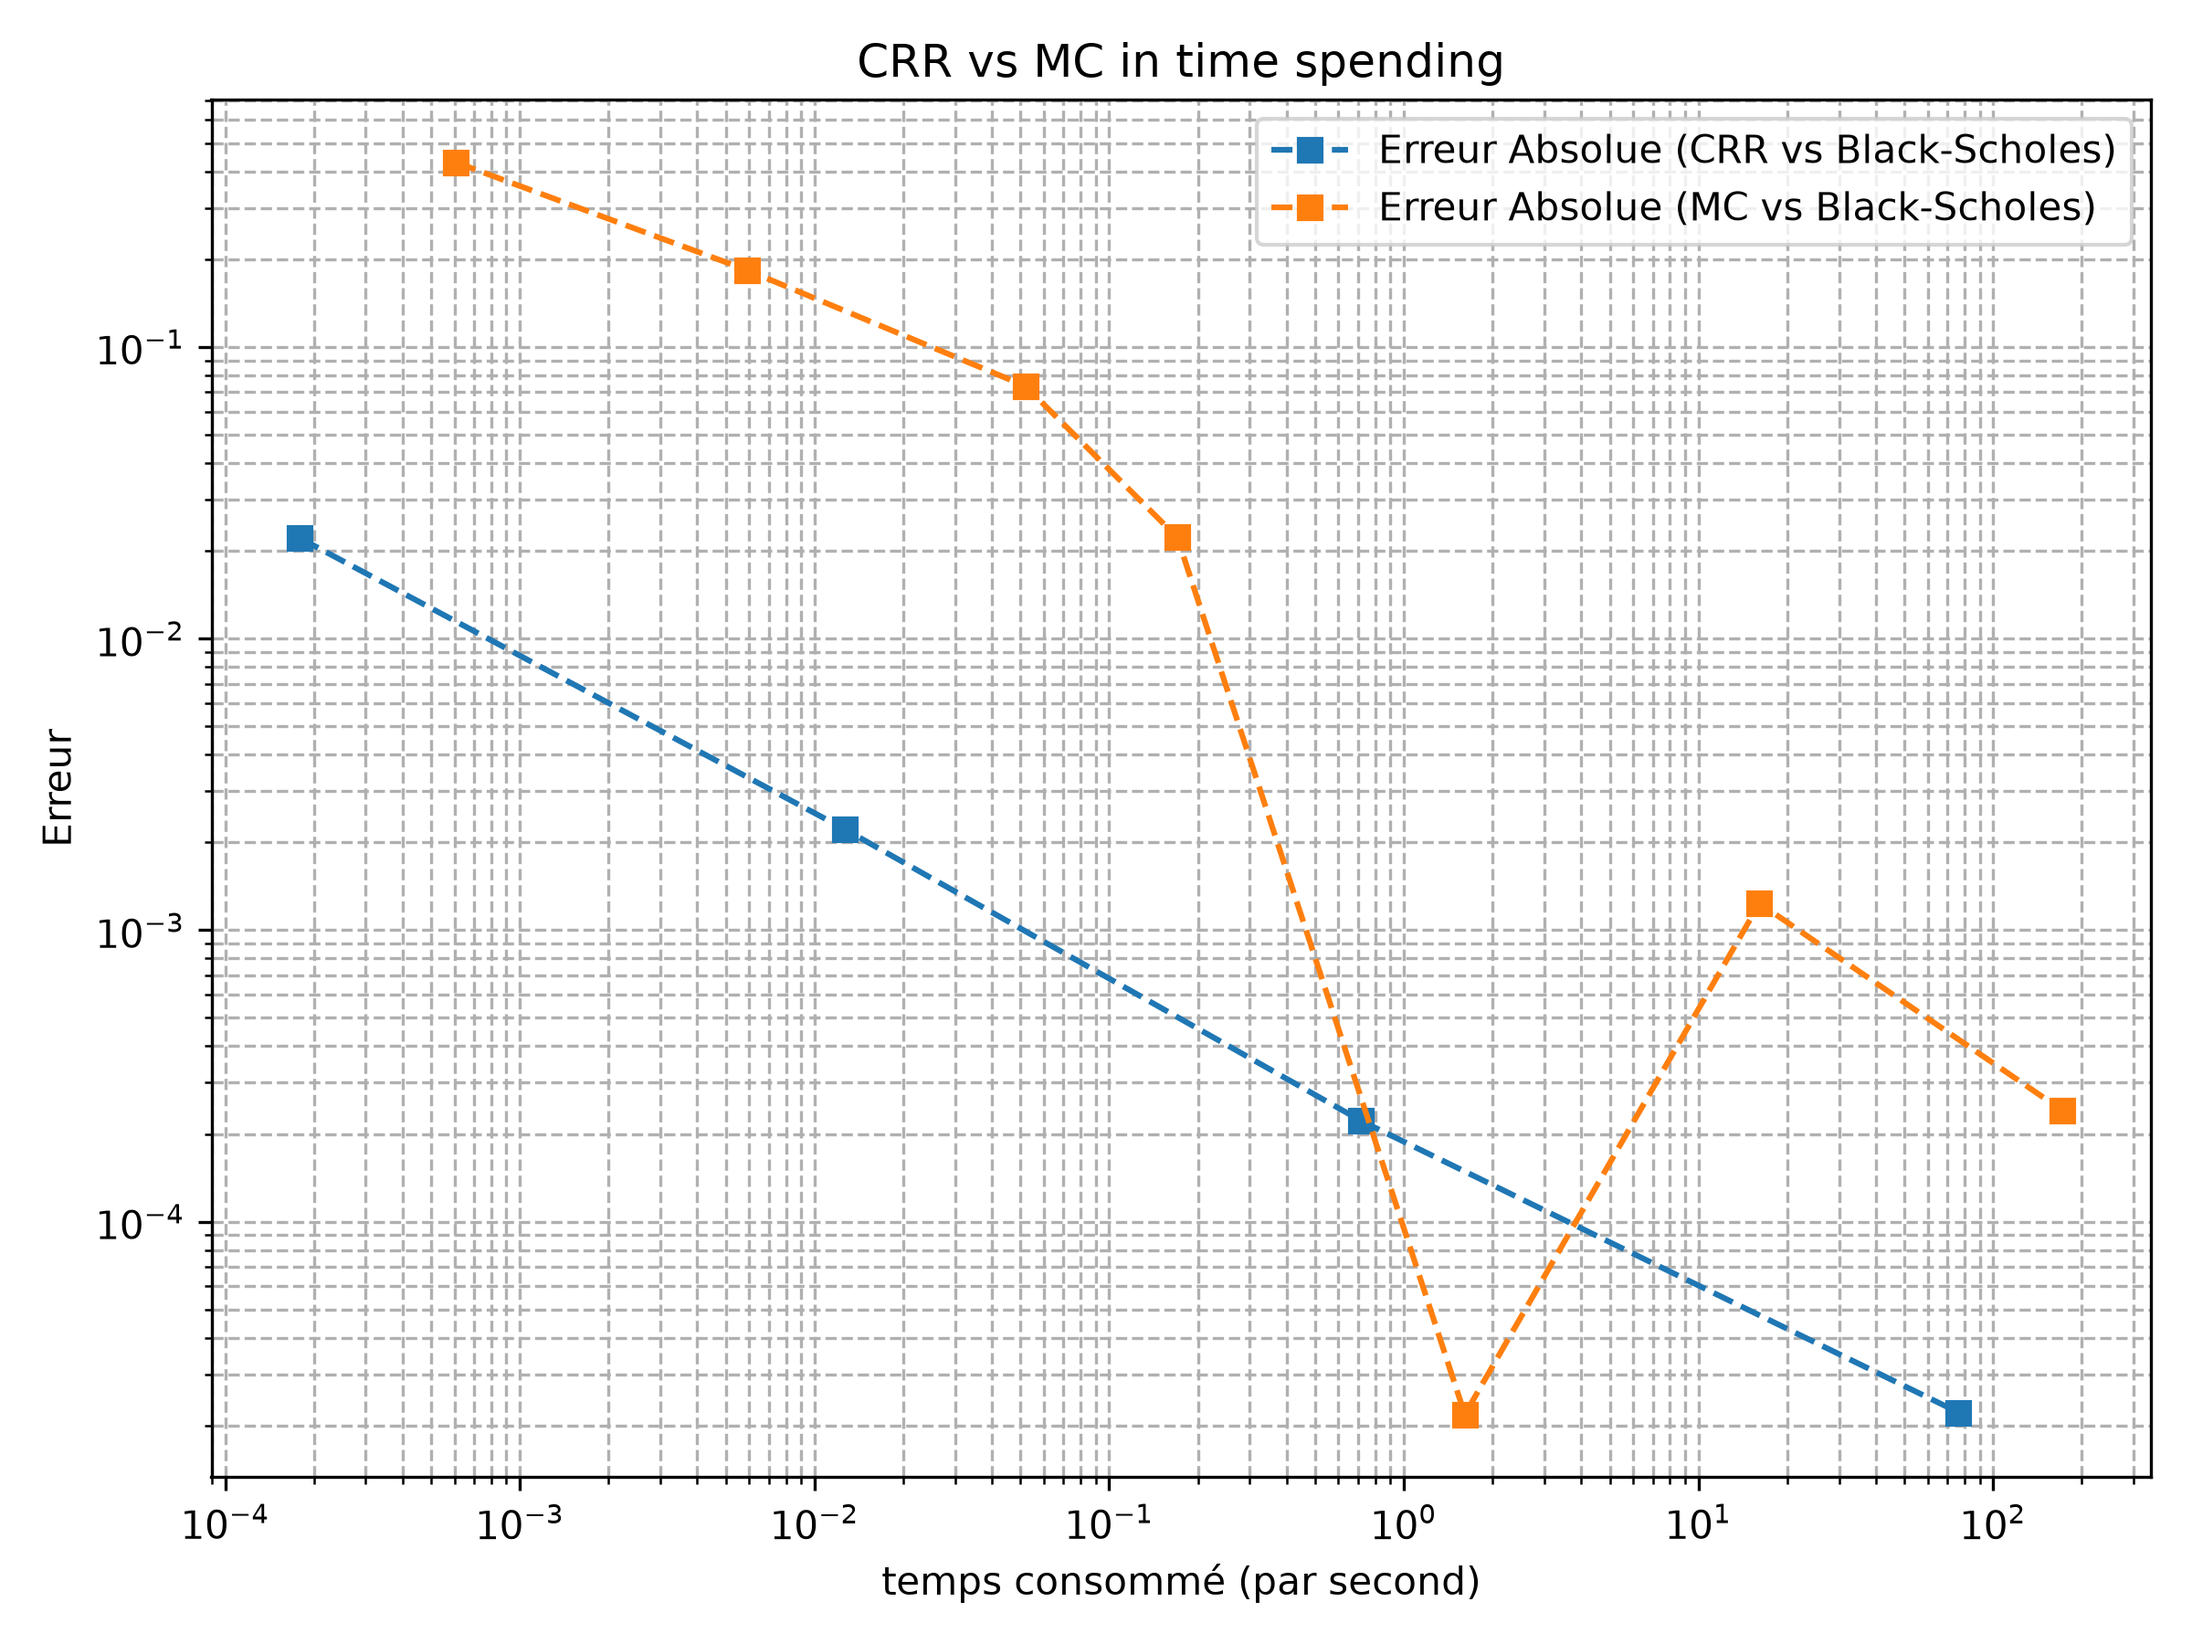
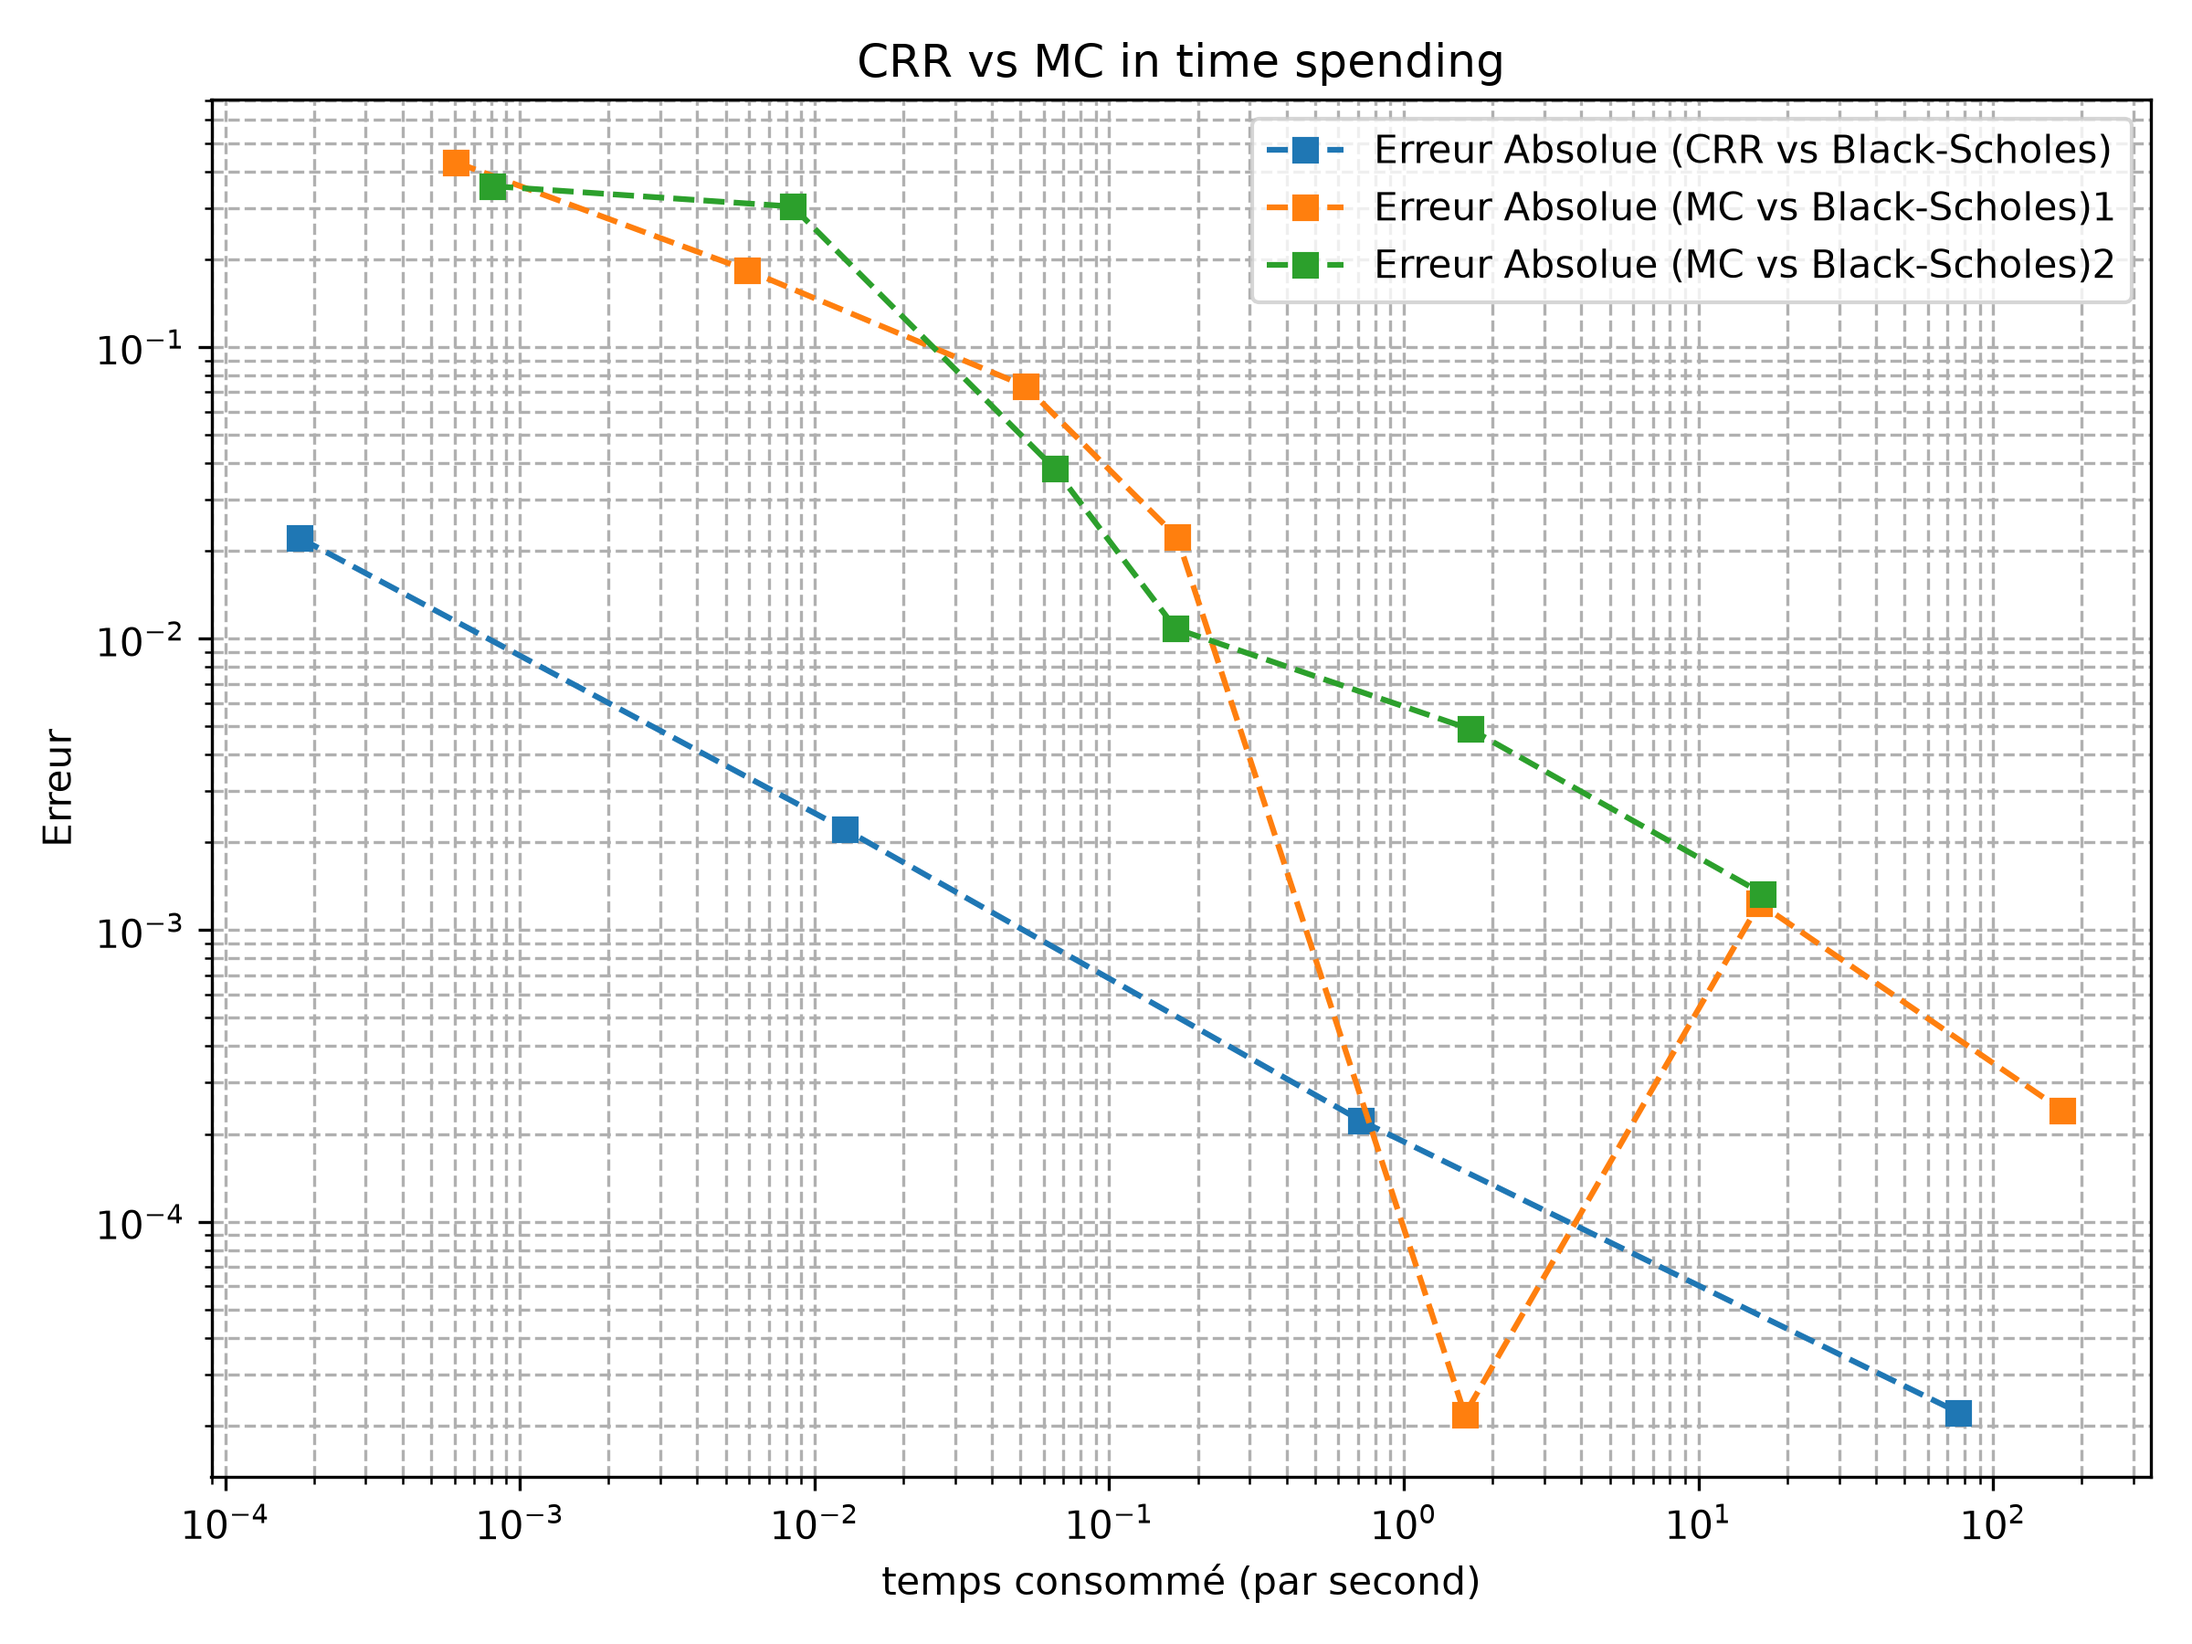
adding an other MC experience to the plot.

diff --git a/plots/convergence.py b/plots/convergence.py
@@ -46,7 +46,8 @@ print("Graphique sauvegardé avec succès sous : crr_convergence.png")
 fig, ax = plt.subplots(figsize=(8, 6))
 
 ax.loglog(df_CRR["time"], df_CRR["error"], marker="s", linestyle="--", label="Erreur Absolue (CRR vs Black-Scholes)")
-ax.loglog(df_MC["time"], df_MC["error"], marker="s", linestyle="--", label="Erreur Absolue (MC vs Black-Scholes)")
+ax.loglog(df_MC["time"], df_MC["error"], marker="s", linestyle="--", label="Erreur Absolue (MC vs Black-Scholes)1")
+ax.loglog(df_MC1234["time"], df_MC1234["error"], marker="s", linestyle="--", label="Erreur Absolue (MC vs Black-Scholes)2")
 
 ax.set_xlabel("temps consommé (par second)")
 ax.set_ylabel("Erreur")
